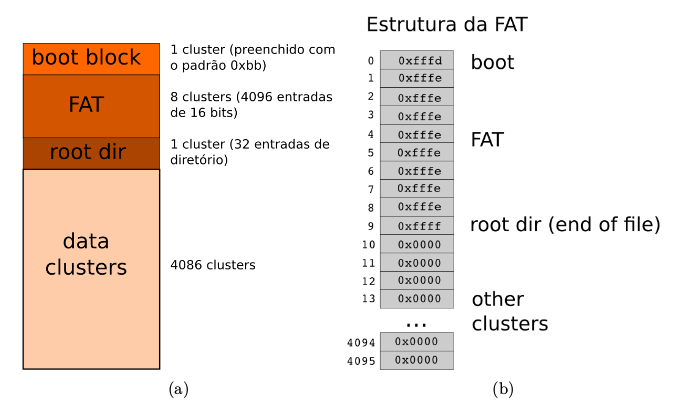
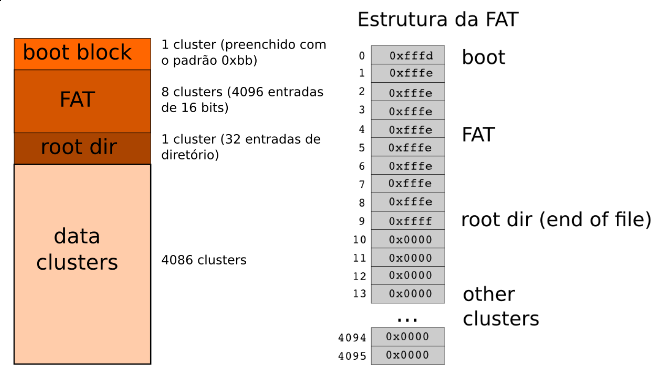
updates readme

diff --git a/README.md b/README.md
@@ -1,91 +1,86 @@
-#Sistemas Operacionais - Trabalho Prático II
+# Sistemas Operacionais - Trabalho Prático II
 
-Sistema de arquivos FAT e um simples shell
+#### Sistema de arquivos FAT e um simples shell
 
-O segundo trabalho prático da disciplina de Sistemas Operacionais con-
-siste na implementação de um simulador de um sistema de arquivos simples
-baseado em tabela de alocação de 16 bits (FAT) e um
-shell usado para realizar operações sobre este sistema de arquivos.
-O sistema de arquivos virtual
-O sistema de arquivos deverá ser armazenado em uma partição virtual e
-suas estruturas de dados mantidas em um único arquivo nomeado
-fat.part.
+O segundo trabalho prático da disciplina de Sistemas Operacionais consiste na
+implementação de um simulador de um sistema de arquivos simples baseado em
+tabela de alocação de 16 bits (FAT) e um shell usado para realizar operações
+sobre este sistema de arquivos.  O sistema de arquivos virtual O sistema de
+arquivos deverá ser armazenado em uma partição virtual e suas estruturas de
+dados mantidas em um único arquivo nomeado fat.part.
 
 A partição virtual teria um tamanho total determinado por:
 * 512 bytes por setor;
 * cluster de 1024 bytes (2 setores por cluster);
 * 4096 clusters;
 
-Dessa forma, seu tamanho pode ser calculado por 512 bytes por setor *
-2 setores por cluster * 4096 clusters = 4MB. Os dados devem ser alocados
-sempre em clusters, ou seja, um arquivo ocupará básicamente no mínimo um
-cluster (1024 bytes) no sistema de arquivos virtual.
+Dessa forma, seu tamanho pode ser calculado por 512 bytes por setor * 2 setores
+por cluster * 4096 clusters = 4MB. Os dados devem ser alocados sempre em
+clusters, ou seja, um arquivo ocupará básicamente no mínimo um cluster (1024
+bytes) no sistema de arquivos virtual.
 
-O primeiro cluster é definido como *boot block*, e conterá informações referentes ao volume (partição).
-Por motivos de simplificação, o *boot block*
+O primeiro cluster é definido como *boot block*, e conterá informações
+referentes ao volume (partição).  Por motivos de simplificação, o *boot block*
 terá o tamanho de 1 cluster (1024 bytes) e não 1 setor (512 bytes) como seria o
-usual,  e  deve  ser  preenchido  com  o  valor  0xbb.   A  FAT  terá  um  tamanho
-determinado por 4096 clusters de dados * 2 bytes por entrada (16 bits) =
-8192  bytes  (8  clusters).   Inicialmente  a  FAT  será  inicializada  com  valores
-definidos adiante.  O diretório *root* estará localizado logo após a FAT e terá
-um tamanho de 1 cluster (assim como todos os outros diretórios).  O diretório
-*root* possui um conjunto de entradas de diretório que podem apontar para
-outros diretórios ou arquivos.  Inicialmente, as entradas de diretório devem
-estar livres, inicializando-se todas as estruturas com 0x00.
+usual,  e  deve  ser  preenchido  com  o  valor  0xbb.   A  FAT  terá  um
+tamanho determinado por 4096 clusters de dados * 2 bytes por entrada (16 bits) =
+8192  bytes  (8  clusters).   Inicialmente  a  FAT  será  inicializada  com
+valores definidos adiante.  O diretório *root* estará localizado logo após a FAT
+e terá um tamanho de 1 cluster (assim como todos os outros diretórios).  O
+diretório *root* possui um conjunto de entradas de diretório que podem apontar
+para outros diretórios ou arquivos.  Inicialmente, as entradas de diretório
+devem estar livres, inicializando-se todas as estruturas com 0x00.
 
-FIGURA
+![Imagem da fat]()
 
-Após a FAT e o diretório *root* , encontra-se a seção de dados contendo o
-restante dos clusters.  Outros diretórios (e sub-diretórios) são definidos como
+Após a FAT e o diretório *root*, encontra-se a seção de dados contendo o
+restante dos clusters. Outros diretórios (e sub-diretórios) são definidos como
 clusters que possuem diversas entradas de diretório (assim como o diretório
 *root*), possuindo uma estrutura apresentada adiante.
 
-#Detalhes sobre o sistema de arquivos
+#### Detalhes sobre o sistema de arquivos
 
-O sistema de arquivos possui uma série de limitações, que foram determi-
-nadas com o intuito de simplificar a implementação do trabalho.  A primeira
-limitação refere-se ao tamanho da FAT, onde é possível armazenar apenas
-4096 entradas para blocos,  o que limita o tamanho da partição virtual em
-4MB. Lembre que a FAT é um "mapa" que representa a estrutura dos blocos
-da partição.  Se mais entradas fossem necessárias (para um disco maior), se-
-riam necessários blocos adicionais para a FAT. A segunda limitação refere-se
-ao número de entradas de diretório em cada nível da árvore.  Cada entrada
-ocupa 32 bytes, o que limita o número de entradas de diretório em 32, tanto
-no diretório raiz quanto em sub-diretórios (os diretórios possuem tamanho
-de um bloco e não podem ser aumentados).
+O sistema de arquivos possui uma série de limitações, que foram determi- nadas
+com o intuito de simplificar a implementação do trabalho.  A primeira limitação
+refere-se ao tamanho da FAT, onde é possível armazenar apenas 4096 entradas para
+blocos,  o que limita o tamanho da partição virtual em 4MB. Lembre que a FAT é
+um "mapa" que representa a estrutura dos blocos da partição.  Se mais entradas
+fossem necessárias (para um disco maior), se- riam necessários blocos adicionais
+para a FAT. A segunda limitação refere-se ao número de entradas de diretório em
+cada nível da árvore.  Cada entrada ocupa 32 bytes, o que limita o número de
+entradas de diretório em 32, tanto no diretório raiz quanto em sub-diretórios
+(os diretórios possuem tamanho de um bloco e não podem ser aumentados).
 
-Não será permitido o uso de trapaças para a manipulação das estruturas
-de dados (como ler todo o sistema de arquivos para a memória para manipular
-as estruturas). Deve-se ler e escrever sempre utilizando a unidade *cluster*,
-independente  de  ser  um  diretório  ou  bloco  de  dados  de  arquivo.   A  FAT
-pode ser lida/gravada completamente no disco (para fim de simplificação).
-Sugere-se manter dois blocos de dados em memória - FAT (8 blocos) e um
-bloco para entradas de diretório ou dados.  Não esqueça de após manipular
-a FAT ou dados de atualizar o sistema de arquivos virtual nas entradas de
-diretório.  Lembre-se que o sistema precisa manter-se consistente, ao ponto
-de poder ser recuperado a qualquer instante.
+Não será permitido o uso de trapaças para a manipulação das estruturas de dados
+(como ler todo o sistema de arquivos para a memória para manipular as
+estruturas). Deve-se ler e escrever sempre utilizando a unidade *cluster*,
+independente  de  ser  um  diretório  ou  bloco  de  dados  de  arquivo.   A
+FAT pode ser lida/gravada completamente no disco (para fim de simplificação).
+Sugere-se manter dois blocos de dados em memória - FAT (8 blocos) e um bloco
+para entradas de diretório ou dados.  Não esqueça de após manipular a FAT ou
+dados de atualizar o sistema de arquivos virtual nas entradas de diretório.
+Lembre-se que o sistema precisa manter-se consistente, ao ponto de poder ser
+recuperado a qualquer instante.
 
-
-
-- Informações sobre o valor das entradas na FAT de 16 bits:
 ```
+- Informações sobre o valor das entradas na FAT de 16 bits:
 0x0000                -> cluster livre
 0x0001 - 0xfffc       -> arquivo (ponteiro p/ proximo cluster)
 0xfffd                -> boot block
 0xfffe                -> FAT
 0xffff                -> fim do arquivo
-```
+
 - Informações sobre a estrutura das entradas de diretório:
-```
 18 bytes         -> nome do arquivo
 1 byte           -> atributo do arquivo
 7 bytes          -> reservado
 2 bytes          -> numero do primeiro cluster ocupado
 4 bytes          -> tamanho do arquivo
 Byte de atributo do arquivo - valor:  0 - arquivo, 1 - diretório.
+
 ```
+```C
 - Tipos e estruturas pré-definidas (usadas como referência)
-```
 /* entrada de diretorio, 32 bytes cada */
 typedef struct{
 uint8_t filename[18];
@@ -105,52 +100,39 @@ uint8_t data[CLUSTER_SIZE];
 } data_cluster;
 ```
 
-#Depuração
+#### Depuração
 
-Sugere-se utilizar a ferramenta de sistema *hexdump*
-(com o modo *canonical*)  para  realizar  a  depuração  e  visualização  das  estruturas  de  dados  do
+Sugere-se utilizar a ferramenta de sistema *hexdump* (com o modo *canonical*)
+para  realizar  a  depuração  e  visualização  das  estruturas  de  dados  do
 sistema de arquivos virtual.  Esta ferramenta faz parte do sistema Linux.
 
-#Detalhes sobre o shell
+#### Detalhes sobre o shell
 
-Um pequeno *shell* deve ser implementado para a manipulação do sistema
-de  arquivos. Este shell deve oferecer recursos  para  a  carga  do  sistema  de
+Um pequeno *shell* deve ser implementado para a manipulação do sistema de
+arquivos. Este shell deve oferecer recursos  para  a  carga  do  sistema  de
 arquivos  e  manipulação  de  diretórios  e  arquivos. Os  seguintes  comandos
 devem ser implementados no shell:
-
-
-
-* init  -  inicializar  o  sistema  de  arquivos  com  as  estruturas  de  dados,
-semelhante a formatar o sistema de arquivos virtual
-
+* `init`  -  inicializar  o  sistema  de  arquivos  com  as  estruturas  de
+	dados, semelhante a formatar o sistema de arquivos virtual
 * load - carregar o sistema de arquivos do disco
-
-* ls [/caminho/diretorio] - listar diretório
-
-* mkdir [/caminho/diretorio] - criar diretório
-
-* create [/caminho/arquivo] - criar arquivo
-
-* unlink  [/caminho/arquivo]  -  excluir  arquivo  ou  diretório  (o  diretório
-precisa estar vazio)
-
-* write "string" [/caminho/arquivo] - escrever dados em um arquivo (so-
-brescrever dados)
-
-* append "string" [/caminho/arquivo] - anexar dados em um arquivo
-
-* read [/caminho/arquivo] - ler o conteúdo de um arquivo
+* `ls [/caminho/diretorio]` - listar diretório
+* `mkdir [/caminho/diretorio]` - criar diretório
+* `create [/caminho/arquivo]` - criar arquivo
+* `unlink  [/caminho/arquivo]`  -  excluir  arquivo  ou  diretório  (o  diretório
+	precisa estar vazio)
+* `write "string" [/caminho/arquivo]` - escrever dados em um arquivo (so-
+	brescrever dados)
+* `append "string" [/caminho/arquivo]` - anexar dados em um arquivo
+* `read [/caminho/arquivo]` - ler o conteúdo de um arquivo
 
 
-#Entrega e apresentação
+#### Entrega e apresentação
 
 O trabalho deverá ser realizado em duplas.  Qualquer linguagem de programação
 pode  ser  utilizada  (preferencialmente  C  ou  C++)  para  o  desen-
-volvimento do trabalho, desde que as estruturas de dados que implementam
-o sistema  de  arquivos  sejam  manipuladas  e  armazenadas  de  acordo  com  a
-especificação. A  entrega  do  trabalho  deverá  ser  realizada  pelo  moodle  em
-um arquivo *.tar.gz* contendo a implementação, instruções de uso e nome dos
+volvimento do trabalho, desde que as estruturas de dados que implementam o
+sistema  de  arquivos  sejam  manipuladas  e  armazenadas  de  acordo  com  a
+especificação. A  entrega  do  trabalho  deverá  ser  realizada  pelo  moodle
+em um arquivo *.tar.gz* contendo a implementação, instruções de uso e nome dos
 integrantes.  A apresentação do trabalho será realizada em aula.
-
-
 
